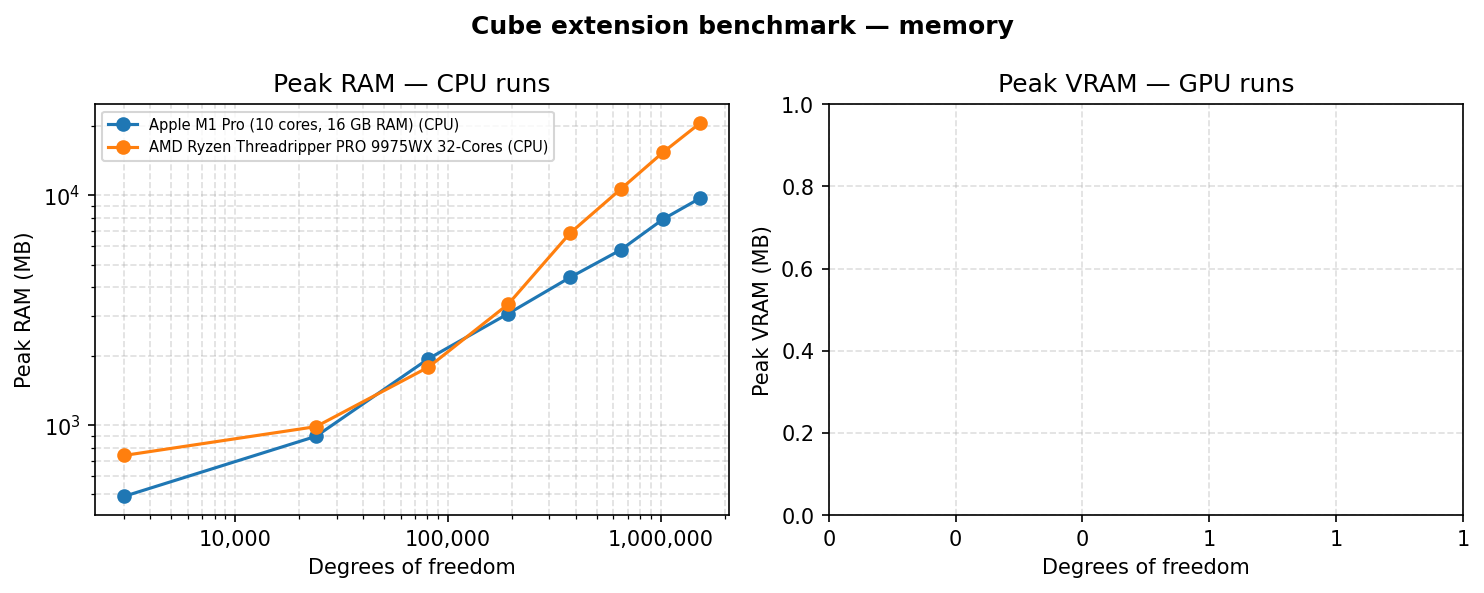
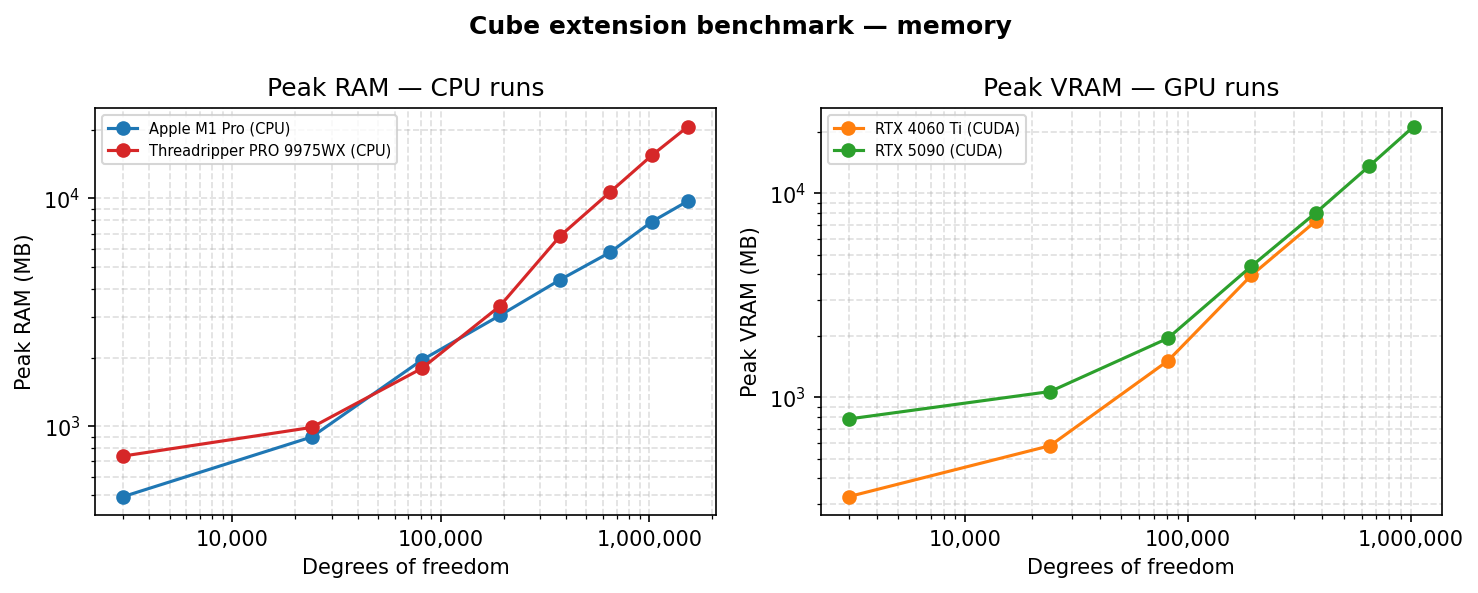
Update benchmark plots, in particular for GPU.

diff --git a/benchmarks/plot.py b/benchmarks/plot.py
@@ -24,11 +24,24 @@ def _label(ds: dict) -> str:
 def plot_timing(datasets: list[dict], out_path: Path) -> None:
     fig, axes = plt.subplots(1, 2, figsize=(10, 4), sharex=True)
 
-    for ds in datasets:
+    for i, ds in enumerate(datasets):
         dofs = [r["dofs"] for r in ds["rows"]]
         lbl = _label(ds)
-        axes[0].loglog(dofs, [r["fwd_s"] for r in ds["rows"]], marker="o", label=lbl)
-        axes[1].loglog(dofs, [r["bwd_s"] for r in ds["rows"]], marker="o", label=lbl)
+        color = f"C{i}"
+        axes[0].loglog(
+            dofs,
+            [r["fwd_s"] for r in ds["rows"]],
+            marker="o",
+            label=lbl,
+            color=color,
+        )
+        axes[1].loglog(
+            dofs,
+            [r["bwd_s"] for r in ds["rows"]],
+            marker="o",
+            label=lbl,
+            color=color,
+        )
 
     for ax, title in zip(axes, ["Forward solve", "Backward solve"]):
         _setup_ax(ax, title, "Time (s)")
@@ -54,6 +67,7 @@ def _setup_ax(ax, title: str, ylabel: str) -> None:
 def plot_ram(datasets: list[dict], out_path: Path) -> None:
     cpu_ds = [ds for ds in datasets if ds["device"] != "cuda"]
     gpu_ds = [ds for ds in datasets if ds["device"] == "cuda"]
+    colors = {_label(ds): f"C{i}" for i, ds in enumerate(datasets)}
 
     fig, axes = plt.subplots(1, 2, figsize=(10, 4), squeeze=False)
     axes = axes[0]
@@ -61,11 +75,13 @@ def plot_ram(datasets: list[dict], out_path: Path) -> None:
     if cpu_ds:
         ax = axes[0]
         for ds in cpu_ds:
+            lbl = _label(ds)
             ax.loglog(
                 [r["dofs"] for r in ds["rows"]],
                 [r["peak_ram_mb"] for r in ds["rows"]],
                 marker="o",
-                label=_label(ds),
+                label=lbl,
+                color=colors[lbl],
             )
         _setup_ax(ax, "Peak RAM — CPU runs", "Peak RAM (MB)")
 
@@ -78,7 +94,8 @@ def plot_ram(datasets: list[dict], out_path: Path) -> None:
             if not pairs:
                 continue
             x, y = zip(*pairs)
-            ax.loglog(x, y, marker="o", label=_label(ds))
+            lbl = _label(ds)
+            ax.loglog(x, y, marker="o", label=lbl, color=colors[lbl])
         _setup_ax(ax, "Peak VRAM — GPU runs", "Peak VRAM (MB)")
 
     fig.suptitle("Cube extension benchmark — memory", fontweight="bold")